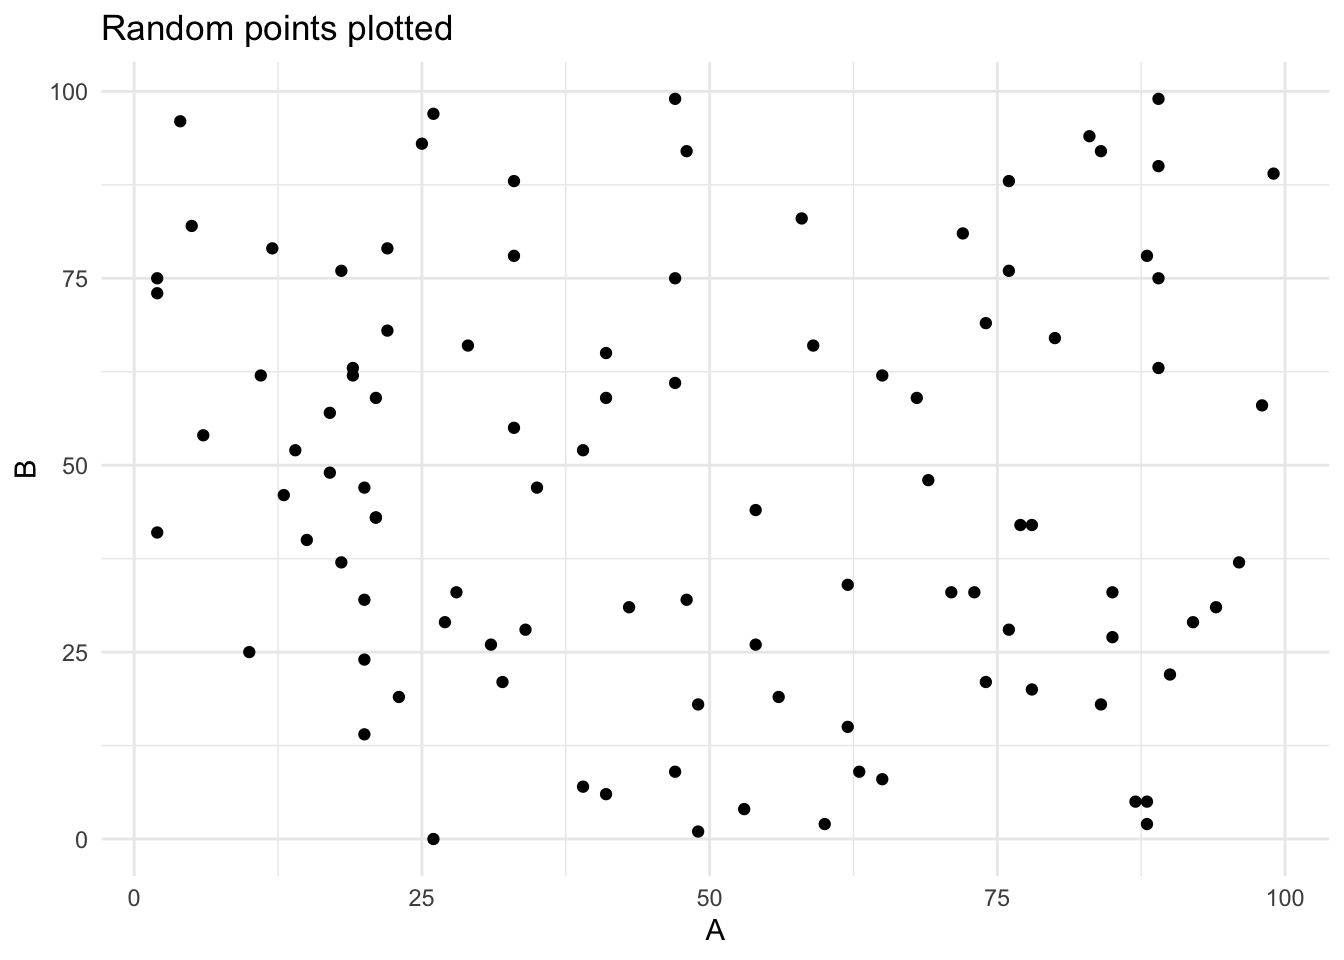
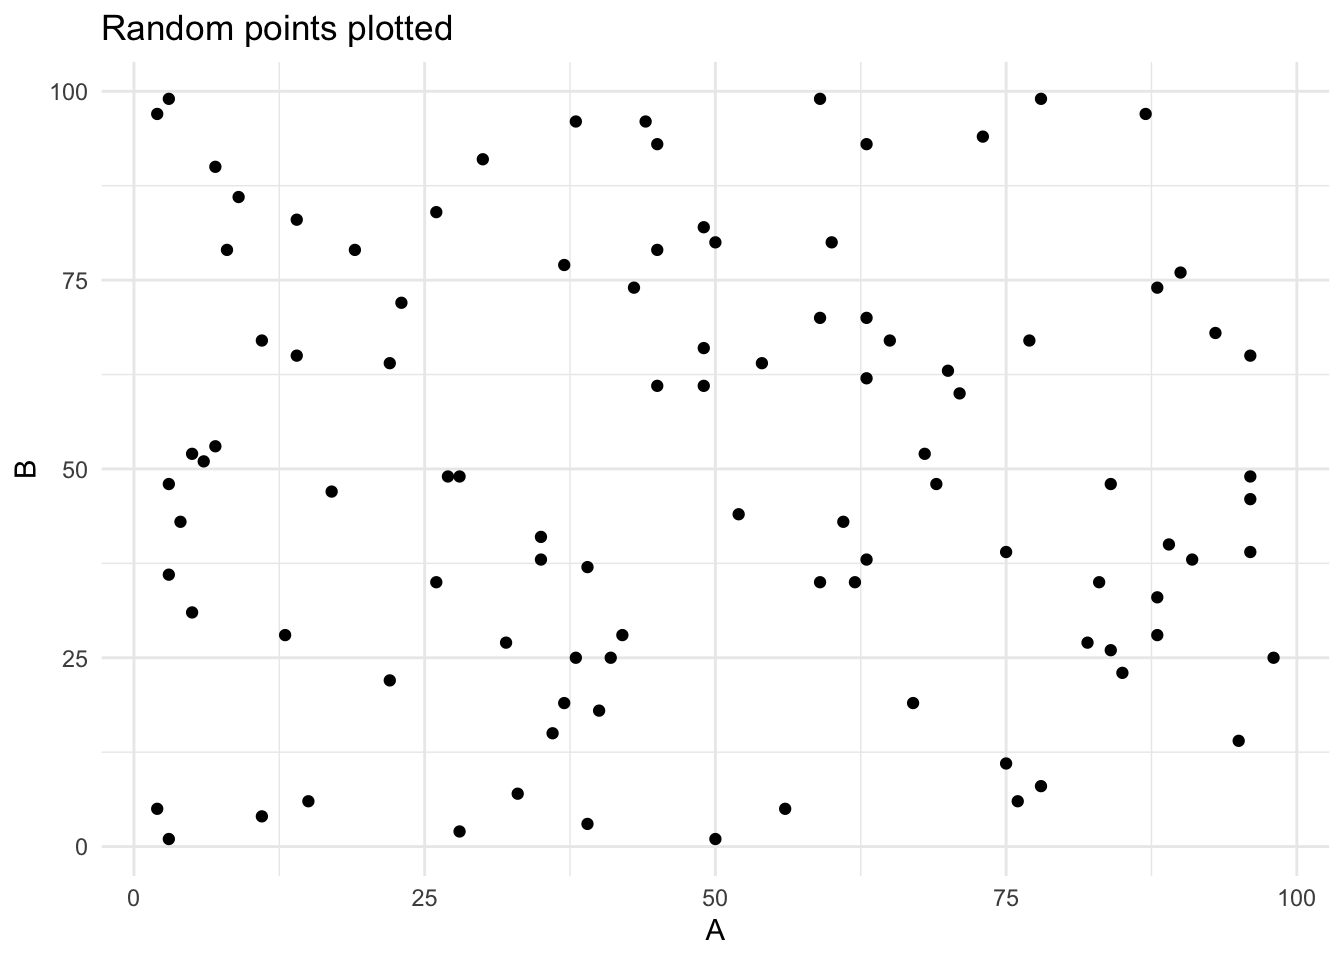
update html

diff --git a/quickstart.html b/quickstart.html
@@ -132,17 +132,24 @@ code span.wa { color: #60a0b0; font-weight: bold; font-style: italic; } /* Warni
 
 <section id="python-r" class="level2">
 <h2 class="anchored" data-anchor-id="python-r">Python + R</h2>
-<p>A workflow for using Python and R in the same notebook. For another setup that uses Jupyter Notebooks to do the same, see: https://github.com/dmil/jupyter-quickstart</p>
+<p>A workflow for using Python and R in the same notebook. For another setup that uses Jupyter Notebooks to do the same, see: <a href="https://github.com/dmil/jupyter-quickstart" class="uri">https://github.com/dmil/jupyter-quickstart</a></p>
 <p>When you run this notebook, it should ask to install the <code>reticulate</code> package. Once that is installed correctly, you should be able to run both R and Python cells.</p>
 </section>
 <section id="setup" class="level2">
 <h2 class="anchored" data-anchor-id="setup">Setup</h2>
 <p><strong>Note</strong>: The following cell creates a python virtualenv, installs some packages (like <code>pandas</code> and <code>scikit-learn</code>).</p>
-<p>https://rstudio.github.io/reticulate/articles/versions.html</p>
+<p><a href="https://rstudio.github.io/reticulate/articles/versions.html" class="uri">https://rstudio.github.io/reticulate/articles/versions.html</a></p>
 <div class="cell">
-<div class="cell-output cell-output-stdout">
-<pre><code>virtualenv: /Users/mehtad/Development/quarto-quickstart/.venv</code></pre>
-</div>
+<div class="sourceCode cell-code" id="cb1"><pre class="sourceCode r code-with-copy"><code class="sourceCode r"><span id="cb1-1"><a href="#cb1-1" aria-hidden="true" tabindex="-1"></a><span class="fu">library</span>(reticulate)</span>
+<span id="cb1-2"><a href="#cb1-2" aria-hidden="true" tabindex="-1"></a></span>
+<span id="cb1-3"><a href="#cb1-3" aria-hidden="true" tabindex="-1"></a>venv_path <span class="ot">&lt;-</span> <span class="fu">paste0</span>(<span class="fu">getwd</span>(), <span class="st">'/.venv'</span>)</span>
+<span id="cb1-4"><a href="#cb1-4" aria-hidden="true" tabindex="-1"></a></span>
+<span id="cb1-5"><a href="#cb1-5" aria-hidden="true" tabindex="-1"></a><span class="co"># create virtualenv and install python libraries</span></span>
+<span id="cb1-6"><a href="#cb1-6" aria-hidden="true" tabindex="-1"></a>python_libraries <span class="ot">&lt;-</span> <span class="fu">c</span>(<span class="st">"pandas"</span>, <span class="st">"scikit-learn"</span>)</span>
+<span id="cb1-7"><a href="#cb1-7" aria-hidden="true" tabindex="-1"></a><span class="fu">virtualenv_create</span>(venv_path, <span class="at">packages=</span>python_libraries)</span>
+<span id="cb1-8"><a href="#cb1-8" aria-hidden="true" tabindex="-1"></a></span>
+<span id="cb1-9"><a href="#cb1-9" aria-hidden="true" tabindex="-1"></a><span class="co"># use virtualenv</span></span>
+<span id="cb1-10"><a href="#cb1-10" aria-hidden="true" tabindex="-1"></a><span class="fu">use_virtualenv</span>(venv_path, <span class="at">required=</span><span class="cn">TRUE</span>)</span></code><button title="Copy to Clipboard" class="code-copy-button"><i class="bi"></i></button></pre></div>
 </div>
 </section>
 <section id="running-code" class="level2">
@@ -152,58 +159,54 @@ code span.wa { color: #60a0b0; font-weight: bold; font-style: italic; } /* Warni
 <div class="cell">
 <div class="sourceCode cell-code" id="cb2"><pre class="sourceCode r code-with-copy"><code class="sourceCode r"><span id="cb2-1"><a href="#cb2-1" aria-hidden="true" tabindex="-1"></a><span class="co"># Imports in R</span></span>
 <span id="cb2-2"><a href="#cb2-2" aria-hidden="true" tabindex="-1"></a><span class="fu">require</span>(<span class="st">'tidyverse'</span>)</span></code><button title="Copy to Clipboard" class="code-copy-button"><i class="bi"></i></button></pre></div>
-<div class="cell-output cell-output-stderr">
-<pre><code>Loading required package: tidyverse</code></pre>
-</div>
-<div class="cell-output cell-output-stderr">
-<pre><code>── Attaching packages ─────────────────────────────────────── tidyverse 1.3.2 ──✔ ggplot2 3.4.1     ✔ purrr   1.0.1
-✔ tibble  3.1.8     ✔ dplyr   1.1.0
-✔ tidyr   1.3.0     ✔ stringr 1.5.0
-✔ readr   2.1.3     ✔ forcats 0.5.1── Conflicts ────────────────────────────────────────── tidyverse_conflicts() ──
-✖ dplyr::filter() masks stats::filter()
-✖ dplyr::lag()    masks stats::lag()</code></pre>
-</div>
 </div>
 <p>And python code like this:</p>
 <div class="cell">
-<div class="sourceCode cell-code" id="cb5"><pre class="sourceCode python code-with-copy"><code class="sourceCode python"><span id="cb5-1"><a href="#cb5-1" aria-hidden="true" tabindex="-1"></a></span>
-<span id="cb5-2"><a href="#cb5-2" aria-hidden="true" tabindex="-1"></a><span class="co"># Imports in Python</span></span>
-<span id="cb5-3"><a href="#cb5-3" aria-hidden="true" tabindex="-1"></a><span class="im">import</span> pandas <span class="im">as</span> pd</span>
-<span id="cb5-4"><a href="#cb5-4" aria-hidden="true" tabindex="-1"></a><span class="im">import</span> numpy <span class="im">as</span> np</span></code><button title="Copy to Clipboard" class="code-copy-button"><i class="bi"></i></button></pre></div>
+<div class="sourceCode cell-code" id="cb3"><pre class="sourceCode python code-with-copy"><code class="sourceCode python"><span id="cb3-1"><a href="#cb3-1" aria-hidden="true" tabindex="-1"></a><span class="co"># Imports in Python</span></span>
+<span id="cb3-2"><a href="#cb3-2" aria-hidden="true" tabindex="-1"></a><span class="im">import</span> pandas <span class="im">as</span> pd</span>
+<span id="cb3-3"><a href="#cb3-3" aria-hidden="true" tabindex="-1"></a><span class="im">import</span> numpy <span class="im">as</span> np</span></code><button title="Copy to Clipboard" class="code-copy-button"><i class="bi"></i></button></pre></div>
 </div>
 </section>
 <section id="code" class="level2">
 <h2 class="anchored" data-anchor-id="code">Code</h2>
 <p>The following code defines a dataframe <code>df</code> in Python with random data points.</p>
 <div class="cell">
-<div class="sourceCode cell-code" id="cb6"><pre class="sourceCode python code-with-copy"><code class="sourceCode python"><span id="cb6-1"><a href="#cb6-1" aria-hidden="true" tabindex="-1"></a></span>
-<span id="cb6-2"><a href="#cb6-2" aria-hidden="true" tabindex="-1"></a><span class="co"># create a dataframe of random numbers with two columns, A and B</span></span>
-<span id="cb6-3"><a href="#cb6-3" aria-hidden="true" tabindex="-1"></a>df <span class="op">=</span> pd.DataFrame(</span>
-<span id="cb6-4"><a href="#cb6-4" aria-hidden="true" tabindex="-1"></a>    np.random.randint(<span class="dv">0</span>,<span class="dv">100</span>,size<span class="op">=</span>(<span class="dv">100</span>, <span class="dv">2</span>)), columns<span class="op">=</span><span class="bu">list</span>(<span class="st">'AB'</span>))</span>
-<span id="cb6-5"><a href="#cb6-5" aria-hidden="true" tabindex="-1"></a></span>
-<span id="cb6-6"><a href="#cb6-6" aria-hidden="true" tabindex="-1"></a><span class="co"># display first 5 rows</span></span>
-<span id="cb6-7"><a href="#cb6-7" aria-hidden="true" tabindex="-1"></a>df.head(<span class="dv">5</span>)</span></code><button title="Copy to Clipboard" class="code-copy-button"><i class="bi"></i></button></pre></div>
+<div class="sourceCode cell-code" id="cb4"><pre class="sourceCode python code-with-copy"><code class="sourceCode python"><span id="cb4-1"><a href="#cb4-1" aria-hidden="true" tabindex="-1"></a><span class="co"># create a dataframe of random numbers with two columns, A and B</span></span>
+<span id="cb4-2"><a href="#cb4-2" aria-hidden="true" tabindex="-1"></a>df <span class="op">=</span> pd.DataFrame(</span>
+<span id="cb4-3"><a href="#cb4-3" aria-hidden="true" tabindex="-1"></a>    np.random.randint(<span class="dv">0</span>,<span class="dv">100</span>,size<span class="op">=</span>(<span class="dv">100</span>, <span class="dv">2</span>)), columns<span class="op">=</span><span class="bu">list</span>(<span class="st">'AB'</span>))</span>
+<span id="cb4-4"><a href="#cb4-4" aria-hidden="true" tabindex="-1"></a></span>
+<span id="cb4-5"><a href="#cb4-5" aria-hidden="true" tabindex="-1"></a><span class="co"># display first 5 rows</span></span>
+<span id="cb4-6"><a href="#cb4-6" aria-hidden="true" tabindex="-1"></a>df.head(<span class="dv">5</span>)</span></code><button title="Copy to Clipboard" class="code-copy-button"><i class="bi"></i></button></pre></div>
 <div class="cell-output cell-output-stdout">
 <pre><code>    A   B
-0  18  76
-1  84  92
-2  77  42
-3  49  18
-4  21  43</code></pre>
+0  54  64
+1  69  48
+2   3   1
+3  63  38
+4  26  84</code></pre>
 </div>
 </div>
-<p>The following is an R cell. The <code>df</code> variable defined above is available as <code>py$df</code>.</p>
-<p>Python variables should be accessible in R prefixed with <code>py$</code> . See the <a href="https://ugoproto.github.io/ugo_r_doc/pdf/reticulate.pdf">reticulate cheat sheet</a> for more details on how to use Python and R together.</p>
+<p>The following is an R cell. The <code>df</code> variable defined above is available as <code>py$df</code>. Python variables should be accessible in R prefixed with <code>py$</code> .</p>
 <div class="cell">
-<div class="sourceCode cell-code" id="cb8"><pre class="sourceCode r code-with-copy"><code class="sourceCode r"><span id="cb8-1"><a href="#cb8-1" aria-hidden="true" tabindex="-1"></a><span class="fu">ggplot</span>(py<span class="sc">$</span>df) <span class="sc">+</span></span>
-<span id="cb8-2"><a href="#cb8-2" aria-hidden="true" tabindex="-1"></a>    <span class="fu">aes</span>(<span class="at">x=</span>A, <span class="at">y=</span>B) <span class="sc">+</span></span>
-<span id="cb8-3"><a href="#cb8-3" aria-hidden="true" tabindex="-1"></a>    <span class="fu">geom_point</span>() <span class="sc">+</span></span>
-<span id="cb8-4"><a href="#cb8-4" aria-hidden="true" tabindex="-1"></a>    <span class="fu">theme_minimal</span>() <span class="sc">+</span></span>
-<span id="cb8-5"><a href="#cb8-5" aria-hidden="true" tabindex="-1"></a>    <span class="fu">ggtitle</span>(<span class="st">"Random points plotted"</span>)</span></code><button title="Copy to Clipboard" class="code-copy-button"><i class="bi"></i></button></pre></div>
+<div class="sourceCode cell-code" id="cb6"><pre class="sourceCode r code-with-copy"><code class="sourceCode r"><span id="cb6-1"><a href="#cb6-1" aria-hidden="true" tabindex="-1"></a>title <span class="ot">&lt;-</span> <span class="st">"Random points plotted"</span></span>
+<span id="cb6-2"><a href="#cb6-2" aria-hidden="true" tabindex="-1"></a></span>
+<span id="cb6-3"><a href="#cb6-3" aria-hidden="true" tabindex="-1"></a><span class="fu">ggplot</span>(py<span class="sc">$</span>df) <span class="sc">+</span></span>
+<span id="cb6-4"><a href="#cb6-4" aria-hidden="true" tabindex="-1"></a>    <span class="fu">aes</span>(<span class="at">x=</span>A, <span class="at">y=</span>B) <span class="sc">+</span></span>
+<span id="cb6-5"><a href="#cb6-5" aria-hidden="true" tabindex="-1"></a>    <span class="fu">geom_point</span>() <span class="sc">+</span></span>
+<span id="cb6-6"><a href="#cb6-6" aria-hidden="true" tabindex="-1"></a>    <span class="fu">theme_minimal</span>() <span class="sc">+</span></span>
+<span id="cb6-7"><a href="#cb6-7" aria-hidden="true" tabindex="-1"></a>    <span class="fu">ggtitle</span>(title)</span></code><button title="Copy to Clipboard" class="code-copy-button"><i class="bi"></i></button></pre></div>
 <div class="cell-output-display">
 <p><img src="quickstart_files/figure-html/unnamed-chunk-10-1.png" class="img-fluid" width="672"></p>
 </div>
 </div>
+<p>R variables should be accessible in Python prefixed with <code>r.</code></p>
+<div class="cell">
+<div class="sourceCode cell-code" id="cb7"><pre class="sourceCode python code-with-copy"><code class="sourceCode python"><span id="cb7-1"><a href="#cb7-1" aria-hidden="true" tabindex="-1"></a>r.title</span></code><button title="Copy to Clipboard" class="code-copy-button"><i class="bi"></i></button></pre></div>
+<div class="cell-output cell-output-stdout">
+<pre><code>'Random points plotted'</code></pre>
+</div>
+</div>
+<p>See the <a href="https://ugoproto.github.io/ugo_r_doc/pdf/reticulate.pdf">reticulate cheat sheet</a> for more details on how to use Python and R together.</p>
 </section>
 
 </main>
